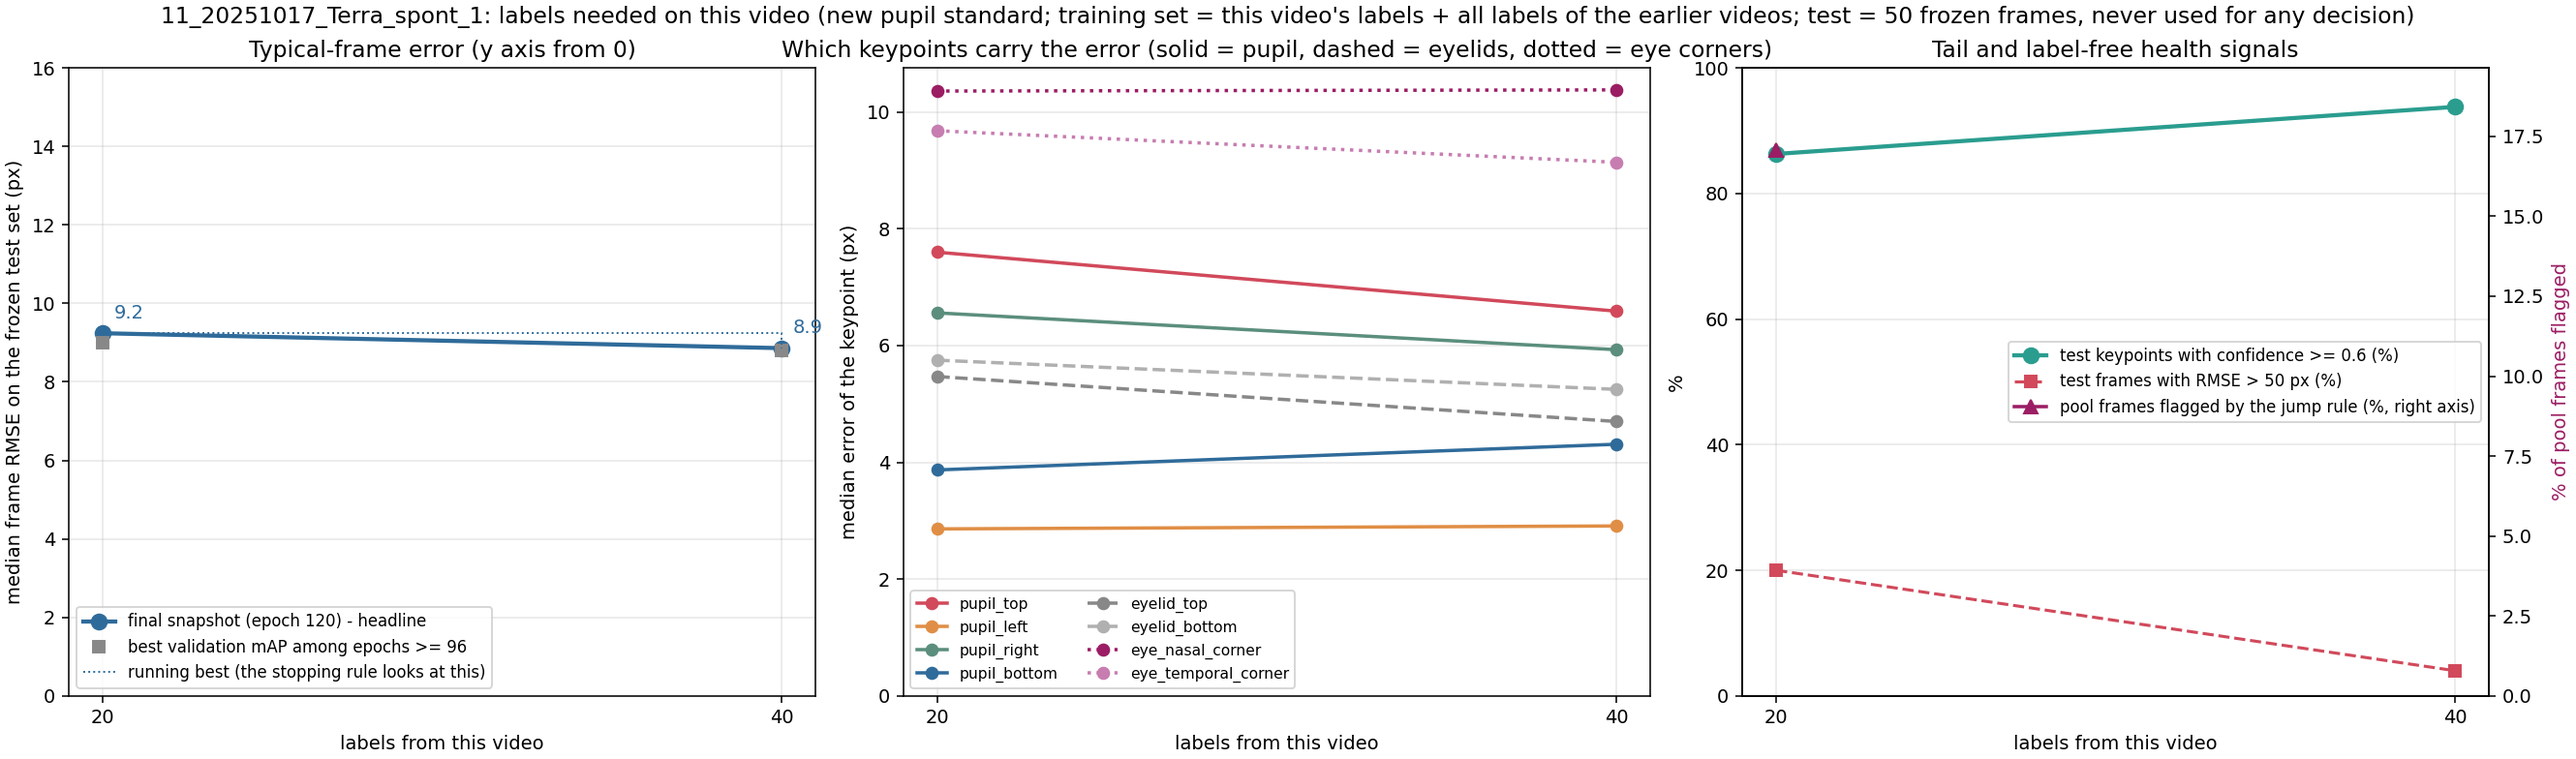
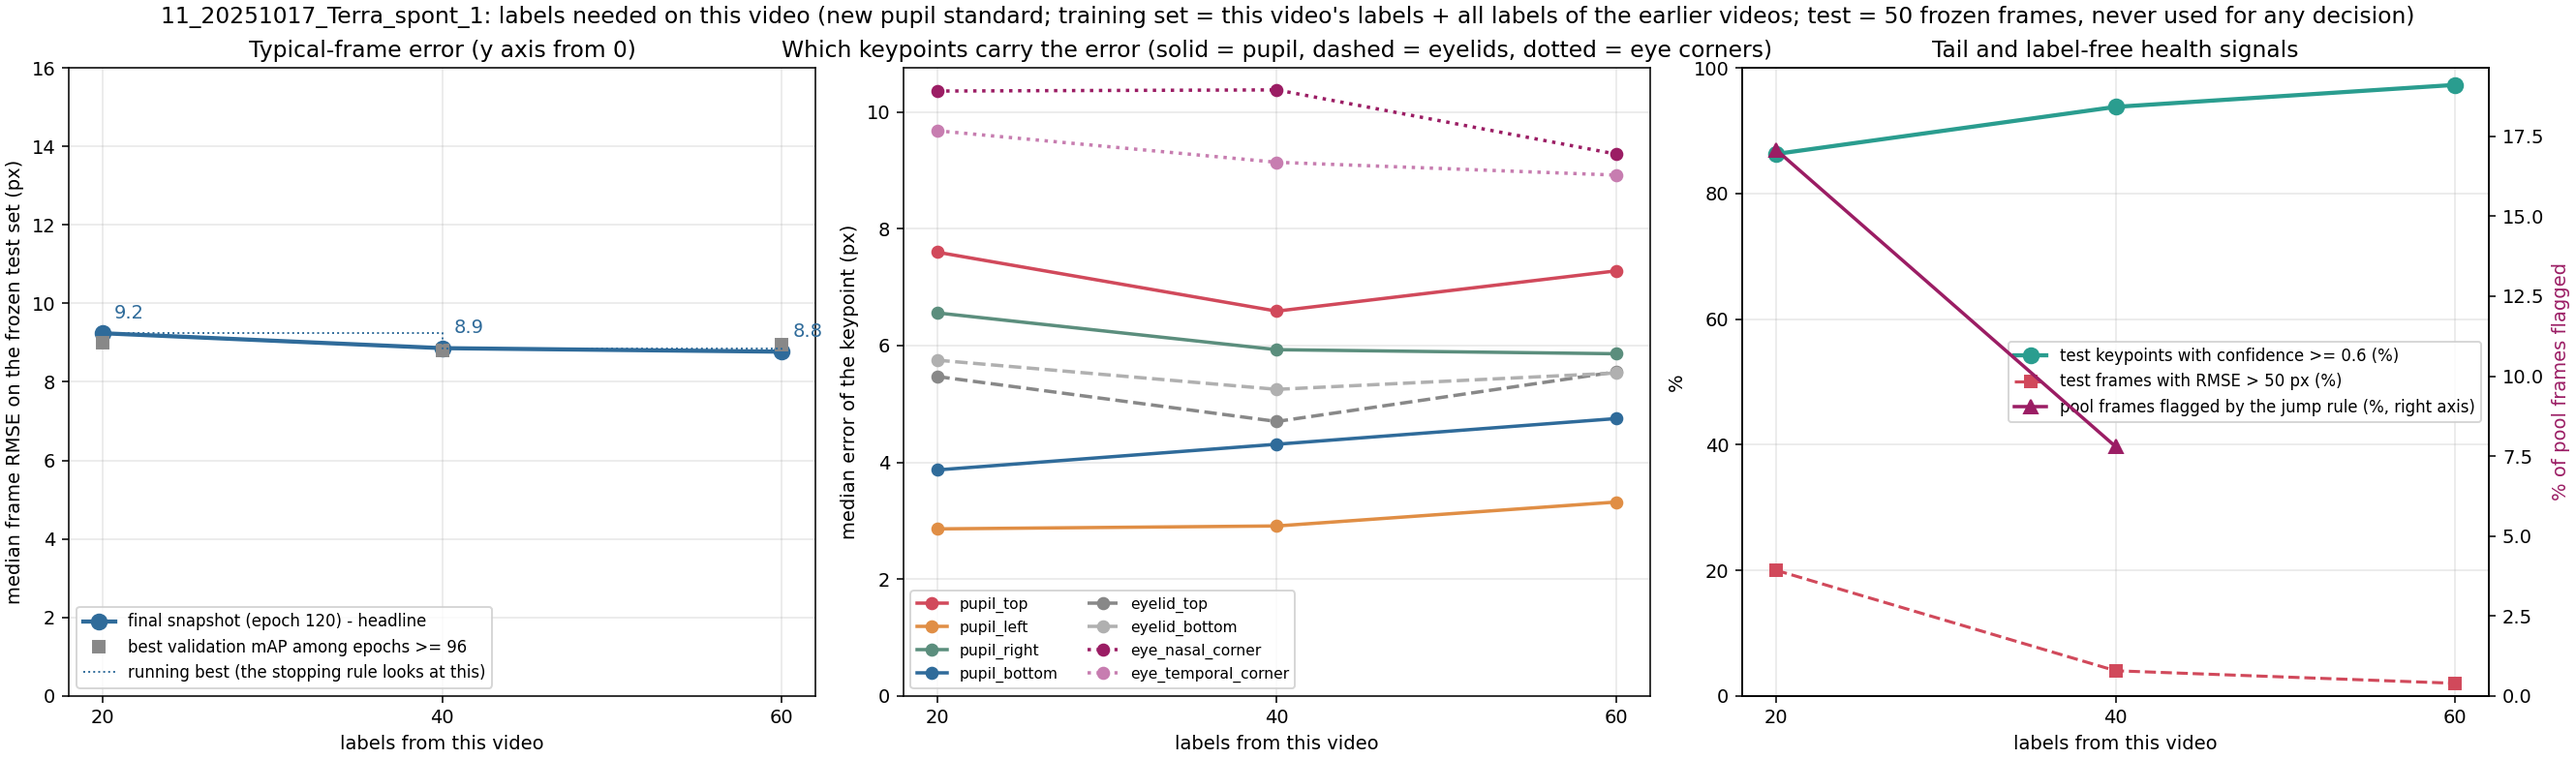
Video 11 (Terra) step 3 (60 labels, model 1213): 8.77 px, 1.0% better than 8.86 (first flat step); test frames > 50 px at 2%
Claude-Session: https://claude.ai/code/session_017MK5SWBFFQAu8ejFk1z7fh

diff --git a/report/index.html b/report/index.html
@@ -69,7 +69,7 @@ code{font-family:var(--mono);font-size:.9em}
 
 <header>
   <h1><span lang="zh">小鼠眼睛关键点追踪：做了什么，结果是什么</span><span lang="en">Mouse eye keypoint tracking: what was done and what came out</span></h1>
-  <p class="muted small">Zhiheng Li (University of Minnesota), Kaiwen Sheng (Stanford) · <span lang="zh">页面生成时间</span><span lang="en">page built</span> 2026-10-04 00:13 · <a href="https://github.com/ZhihengLi0/mouse-behavior-tracking">GitHub: ZhihengLi0/mouse-behavior-tracking</a></p>
+  <p class="muted small">Zhiheng Li (University of Minnesota), Kaiwen Sheng (Stanford) · <span lang="zh">页面生成时间</span><span lang="en">page built</span> 2026-10-04 00:15 · <a href="https://github.com/ZhihengLi0/mouse-behavior-tracking">GitHub: ZhihengLi0/mouse-behavior-tracking</a></p>
 
   <div class="text" lang="zh">
     <p><b>任务：</b>用 DeepLabCut 在小鼠眼睛视频的每一帧上找 8 个点：瞳孔上、下、左、右，上眼睑、下眼睑，鼻侧眼角、颞侧眼角。由这 8 个点得到瞳孔大小、眼睛睁开程度和眨眼，之后与脑记录对齐。</p>
@@ -97,7 +97,7 @@ code{font-family:var(--mono);font-size:.9em}
       <li><b>加入新视频会不会让旧视频变差？</b>不会（第 10 步）。</li>
       <li><b>瞳孔面积怎么算？</b>新标准下四个点都是椭圆端点，用四个点算的面积误差约为三点法的一半（第 11 步）。</li>
     </ol>
-    <p><b>进度：</b>已完成 11 个视频（视频 0–10）；视频 11 进行中，按 0 / 20 / 40 / … 帧的误差为 25.96 / 9.24 / 8.86 px。</p>
+    <p><b>进度：</b>已完成 11 个视频（视频 0–10）；视频 11 进行中，按 0 / 20 / 40 / … 帧的误差为 25.96 / 9.24 / 8.86 / 8.77 px。</p>
   </div>
   <div class="text" lang="en">
     <p><b>Task:</b> DeepLabCut finds 8 points on every frame of a mouse-eye video: pupil top, bottom, left, right; upper and lower eyelid; nasal and temporal eye corner. From these we get pupil size, eye opening and blinks, to be aligned with brain recordings later.</p>
@@ -125,7 +125,7 @@ code{font-family:var(--mono);font-size:.9em}
       <li><b>Do new videos make old ones worse?</b> No (step 10).</li>
       <li><b>How to compute the pupil area?</b> Under the new standard all four points are ellipse endpoints, and the 4-point area has about half the error of the 3-point rule (step 11).</li>
     </ol>
-    <p><b>Status:</b> 11 videos finished (videos 0–10); video 11 in progress, error at 0 / 20 / 40 / … labels: 25.96 / 9.24 / 8.86 px.</p>
+    <p><b>Status:</b> 11 videos finished (videos 0–10); video 11 in progress, error at 0 / 20 / 40 / … labels: 25.96 / 9.24 / 8.86 / 8.77 px.</p>
   </div>
 
   <div class="text" lang="zh">
@@ -466,7 +466,7 @@ code{font-family:var(--mono);font-size:.9em}
 <tr><td>8</td><td>Pluto<br>2025-10-24</td><td>400</td><td>27.46 / 25.34 / 30.03 / 33.77</td><td><span lang="zh"><b>20 帧，25.34 px</b></span><span lang="en"><b>20 labels, 25.34 px</b></span></td><td>60</td><td>20</td></tr>
 <tr><td>9</td><td>Pluto<br>2025-10-23</td><td>420</td><td>23.41 / 10.39 / 8.55 / 8.67 / 8.20 / 9.39 / 8.63</td><td><span lang="zh"><b>80 帧，8.20 px</b></span><span lang="en"><b>80 labels, 8.20 px</b></span></td><td>120</td><td>80</td></tr>
 <tr><td>10</td><td>Pluto<br>2025-10-22</td><td>500</td><td>18.13 / 11.83 / 10.32 / 10.49 / 10.76</td><td><span lang="zh"><b>40 帧，10.32 px</b></span><span lang="en"><b>40 labels, 10.32 px</b></span></td><td>80</td><td>40</td></tr>
-<tr><td>11</td><td>Terra<br>2025-10-17</td><td>540</td><td>25.96 / 9.24 / 8.86</td><td><span lang="zh">进行中（目前最好：40 帧，8.86 px）</span><span lang="en">in progress (best so far: 40 labels, 8.86 px)</span></td><td>40</td><td>–</td></tr>
+<tr><td>11</td><td>Terra<br>2025-10-17</td><td>540</td><td>25.96 / 9.24 / 8.86 / 8.77</td><td><span lang="zh">进行中（目前最好：40 帧，8.86 px）</span><span lang="en">in progress (best so far: 40 labels, 8.86 px)</span></td><td>60</td><td>–</td></tr>
       </tbody>
     </table>
   </div>

diff --git a/README.md b/README.md
@@ -8,7 +8,7 @@ how many human labels are needed, and how few frames must a person correct, befo
 Zhiheng Li (University of Minnesota), with Kaiwen Sheng (Stanford). Raw videos, frames, labels, model weights and
 per-frame predictions stay local; git carries code, documentation and audited aggregate results.
 
-## Status (last updated 2026-10-03 17:25 CDT)
+## Status (last updated 2026-10-04 00:20 CDT)
 
 | what | state |
 |---|---|
@@ -24,7 +24,7 @@ per-frame predictions stay local; git carries code, documentation and audited ag
 | Finished | **video 9** (Pluto, 2025-10-23, v2 line): test50 / val20 / batch01 labeled from model-711 pre-labels; 0 labels (model 711) = 23.41 px, 20 labels = 10.39 px, 40 labels = 8.55 px, 60 labels = 8.67 px (p90 14.8; no gain on the median), 80 labels = 8.20 px (p90 14.8; 4.1% better than 8.55), 100 labels = 9.39 px (p90 15.5), 120 labels = 8.63 px (p90 15.8): the plateau rule fired at 120 (two steps without a gain on 8.20), finished at **80 labels, 8.20 px** (user decision 2026-10-01). Cross-video curves now also show the 5 / 10-label subset models (open markers) |
 | Blink / area analysis | per-video time series in `<video>/results/blink_area_analysis/`; across videos (`v2_new_pupil_top_video_scaling/results/blink_area_consistency.png`): 4-point area better on 7 of 8 test sets; lowest pupil confidence < ~0.2 separates all 16 human closed-eye frames (the production 0.6 cut flags ~half of open frames); area correlates with eye opening in every video |
 | Finished | **video 10** (Pluto, 2025-10-22, the last Pluto video of the sequence): test50 / val20 / batch01 pre-labeled with the video-9 80-label model (1014) and corrected by the labeler (test50: 234 of 400 points moved), test set frozen; 0 labels (model 1014) = 18.13 px (p90 32.0, 8% of frames > 50 px), 20 labels = 11.83 px (p90 27.7, 2% > 50 px), 40 labels = 10.32 px (p90 26.1, 92% of keypoints with confidence >= 0.6), 60 labels = 10.49 px (p90 27.2, 8% > 50 px; no gain over 10.32), 80 labels = 10.76 px (p90 188.7, 12% > 50 px; no gain): the plateau rule fired at 80 (two steps without a gain on 10.32), finished at **40 labels, 10.32 px** (user decision 2026-10-03) |
-| In progress | **video 11** (Terra = mouse C, 2025-10-17, the first video of a new mouse): test50 / val20 / batch01 pre-labeled with the video-10 40-label model (1112) and corrected by the labeler (test50: 249 of 400 points moved), test set frozen; 0 labels (model 1112) = 25.96 px (p90 80.1, 16% of frames > 50 px), 20 labels = 9.24 px (p90 166.4, 20% of frames > 50 px), 40 labels = 8.86 px (p90 17.5, 4% of frames > 50 px, 94% of keypoints with confidence >= 0.6; 4.1% better on the median); batch03 being selected. Training set of every step = 540 carried labels of videos 0-10 + this video's labels; shuffles 1211, 1212, ... |
+| In progress | **video 11** (Terra = mouse C, 2025-10-17, the first video of a new mouse): test50 / val20 / batch01 pre-labeled with the video-10 40-label model (1112) and corrected by the labeler (test50: 249 of 400 points moved), test set frozen; 0 labels (model 1112) = 25.96 px (p90 80.1, 16% of frames > 50 px), 20 labels = 9.24 px (p90 166.4, 20% of frames > 50 px), 40 labels = 8.86 px (p90 17.5, 4% of frames > 50 px, 94% of keypoints with confidence >= 0.6; 4.1% better on the median), 60 labels = 8.77 px (p90 12.9, 2% of frames > 50 px, 97% confidence; 1.0% better than 8.86, which counts as the first of the two flat steps the plateau rule needs); batch04 being selected. Training set of every step = 540 carried labels of videos 0-10 + this video's labels; shuffles 1211, 1212, ... |
 | Next | Terra units 12-18, one recording day each, newest first |
 
 ## Main results so far (era 3, `v2_new_pupil_top_video_scaling/`)
@@ -44,7 +44,7 @@ Labels needed per video (plateau = two consecutive 20-label steps that improve t
 | 8 | Pluto, 2025-10-24 | 400 | 27.46 / 25.34 / 30.03 / 33.77 px (v2) | 20 labels, 25.3 px (rule fired at 60) |
 | 9 | Pluto, 2025-10-23 | 420 | 23.41 / 10.39 / 8.55 / 8.67 / 8.20 / 9.39 px, 120 labels: 8.63 px (v2) | 80 labels, 8.2 px (rule fired at 120) |
 | 10 | Pluto, 2025-10-22 | 500 | 18.13 / 11.83 / 10.32 / 10.49 / 10.76 px (v2) | 40 labels, 10.3 px (rule fired at 80) |
-| 11 | Terra (mouse C), 2025-10-17 | 540 | 25.96 / 9.24 / 8.86 px (v2, in progress) | – |
+| 11 | Terra (mouse C), 2025-10-17 | 540 | 25.96 / 9.24 / 8.86 / 8.77 px (v2, in progress) | – |
 
 What the numbers say:
 

diff --git a/v2_new_pupil_top_video_scaling/results/README.md b/v2_new_pupil_top_video_scaling/results/README.md
@@ -23,7 +23,7 @@ snapshot with the best validation mAP after the first learning-rate drop (epochs
 | 8 `8_20251024_Pluto_spont1` | mouse B, 19.9 min, 2025-10-24 | 400 (videos 0-3 + 40 of video 4 + 20 of video 5 + 20 of video 6) | convention v2: 27.46 / 25.34 / 30.03 / 33.77 | **20 labels** (rule fired at 60; user decision 2026-09-30) | 25.34 px |
 | 9 `9_20251023_Pluto1` | mouse B, 19.9 min, 2025-10-23 | 420 (videos 0-3 + 40 of video 4 + 20 each of videos 5, 6, 8) | convention v2: 23.41 / 10.39 / 8.55 / 8.67 / 8.20 / 9.39 / 8.63 (120 labels) | **80 labels** (rule fired at 120; user decision 2026-10-01) | 8.20 px |
 | 10 `10_20251022_Pluto1` | mouse B, 19.9 min, 2025-10-22 | 500 (videos 0-3 + 40 of video 4 + 20 each of videos 5, 6, 8 + 80 of video 9) | convention v2: 18.13 / 11.83 / 10.32 / 10.49 / 10.76 | **40 labels** (rule fired at 80; user decision 2026-10-03) | 10.32 px |
-| 11 `11_20251017_Terra_spont_1` | mouse C (Terra), 19.9 min, 2025-10-17 | 540 (videos 0-3 + 40 of video 4 + 20 each of videos 5, 6, 8 + 80 of video 9 + 40 of video 10) | convention v2: 25.96 / 9.24 / 8.86 | in progress (steps 1 and 2 improved the running best by 64% and 4.1%) | – |
+| 11 `11_20251017_Terra_spont_1` | mouse C (Terra), 19.9 min, 2025-10-17 | 540 (videos 0-3 + 40 of video 4 + 20 each of videos 5, 6, 8 + 80 of video 9 + 40 of video 10) | convention v2: 25.96 / 9.24 / 8.86 / 8.77 | in progress (steps 1 and 2 improved the running best by 64% and 4.1%; step 3 by 1.0%, a flat step) | – |
 
 `labels_to_plateau.png` / `labels_to_plateau.csv` (2026-09-30): the plateau point of every video in the sequence as one figure - labels needed (left) and the error at the plateau vs the 0-label error (right); `scripts/plot_labels_to_plateau.py`. The csv is the table above in machine-readable form and is updated when a video finishes.
 

diff --git a/v2_new_pupil_top_video_scaling/11_20251017_Terra_spont_1/results/README.md b/v2_new_pupil_top_video_scaling/11_20251017_Terra_spont_1/results/README.md
@@ -12,6 +12,7 @@ batch01: 99 of 160), then the test set was frozen. Training set of every step = 
 | 0 (video-10 40-label model 1112, applied unchanged) | 25.96 px | 80.1 | 16% | 42% | – |
 | 20 (shuffle 1211) | 9.24 px | 166.4 | 20% | 86% | 9762 of 57158 (17.1%) |
 | 40 (shuffle 1212) | 8.86 px | 17.5 | 4% | 94% | 4456 of 57158 (7.8%) |
+| 60 (shuffle 1213) | 8.77 px | 12.9 | 2% | 97% | pending |
 
 Back-test of the earlier models on this test set (`../results/cross_video_matrix.csv`): the models of the sequence
 score between 16.5 and 313 px; the other models of video 10 (20 / 60 / 80 labels) give 16.54 / 29.18 / 33.41 px, so
